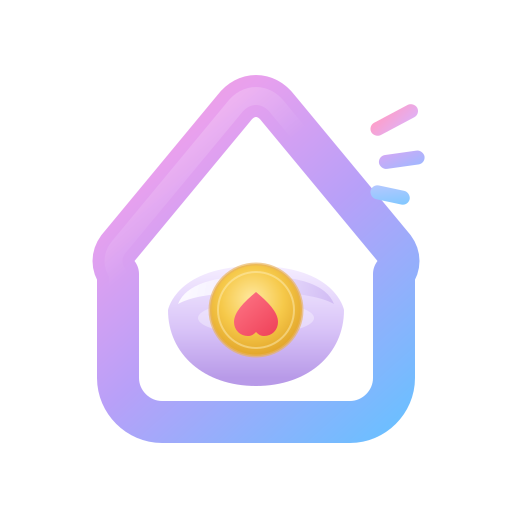
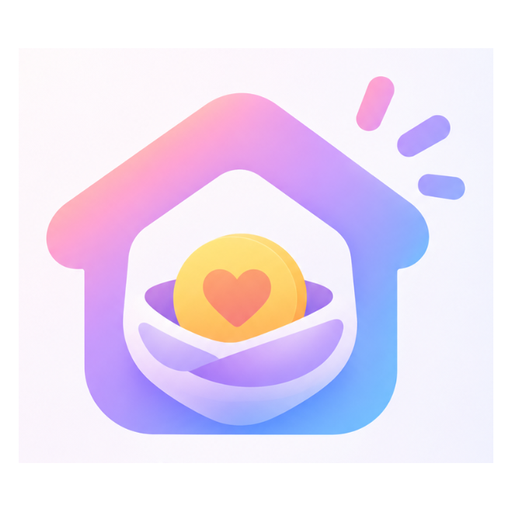
fix: 用官方 luckynest 稿替换手绘 SVG
将 logo/mark SVG 改为封装官方 PNG，登录页使用完整 wordmark logo，并同步刷新 PWA 图标。

diff --git a/frontend/src/styles.css b/frontend/src/styles.css
@@ -38,6 +38,18 @@
   --ease: cubic-bezier(0.22, 1, 0.36, 1);
 }
 
+.sr-only {
+  position: absolute;
+  width: 1px;
+  height: 1px;
+  padding: 0;
+  margin: -1px;
+  overflow: hidden;
+  clip: rect(0, 0, 0, 0);
+  white-space: nowrap;
+  border: 0;
+}
+
 * {
   box-sizing: border-box;
 }
@@ -891,6 +903,17 @@ textarea {
   object-fit: contain;
   background: transparent;
   box-shadow: none;
+  animation: login-float 5.2s ease-in-out infinite;
+}
+
+.login-logo {
+  width: min(168px, 42vw);
+  height: auto;
+  aspect-ratio: 1;
+  border-radius: 36px;
+  object-fit: contain;
+  background: transparent;
+  box-shadow: 0 18px 40px rgba(143, 111, 214, 0.16);
   animation: login-float 5.2s ease-in-out infinite;
 }
 
@@ -1962,6 +1985,11 @@ textarea {
     width: 64px;
     height: 64px;
     border-radius: 18px;
+  }
+
+  .login-logo {
+    width: min(140px, 46vw);
+    border-radius: 30px;
   }
 
   .login-panel {

diff --git a/frontend/src/App.jsx b/frontend/src/App.jsx
@@ -343,8 +343,14 @@ function Login({ onLogin, show, toast }) {
     <div className="login-wrap">
       <div className="login-stage">
         <header className="login-hero">
-          <img className="login-mark" src="/brand/luckynest-mark.svg" alt="luckynest" width="88" height="88" />
-          <h1 className="brand-cn login-brand">{BRAND_NAME}</h1>
+          <h1 className="sr-only">{BRAND_NAME}</h1>
+          <img
+            className="login-logo"
+            src="/brand/luckynest-logo.svg"
+            alt="luckynest"
+            width="168"
+            height="168"
+          />
           <p className="login-tagline">{BRAND_TAGLINE}</p>
         </header>
 

diff --git a/frontend/public/sw.js b/frontend/public/sw.js
@@ -1,4 +1,4 @@
-const CACHE = "luckynest-shell-v8";
+const CACHE = "luckynest-shell-v9";
 
 self.addEventListener("install", (event) => {
   event.waitUntil(
